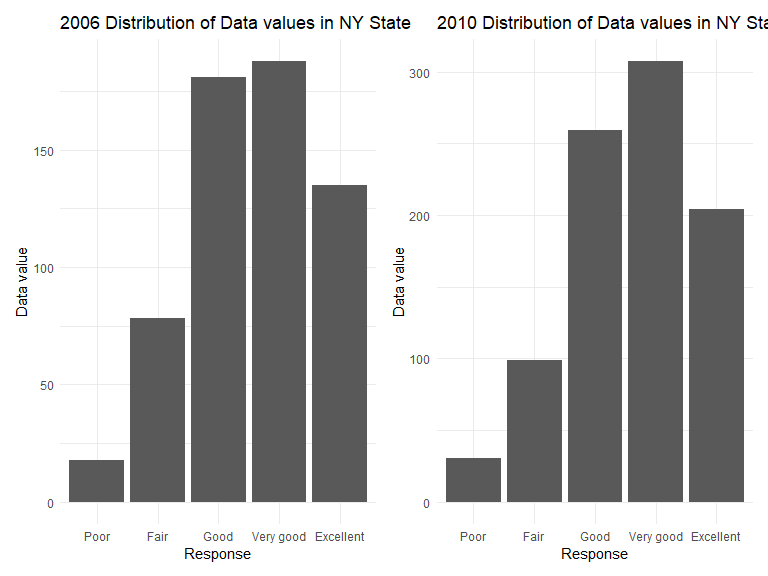
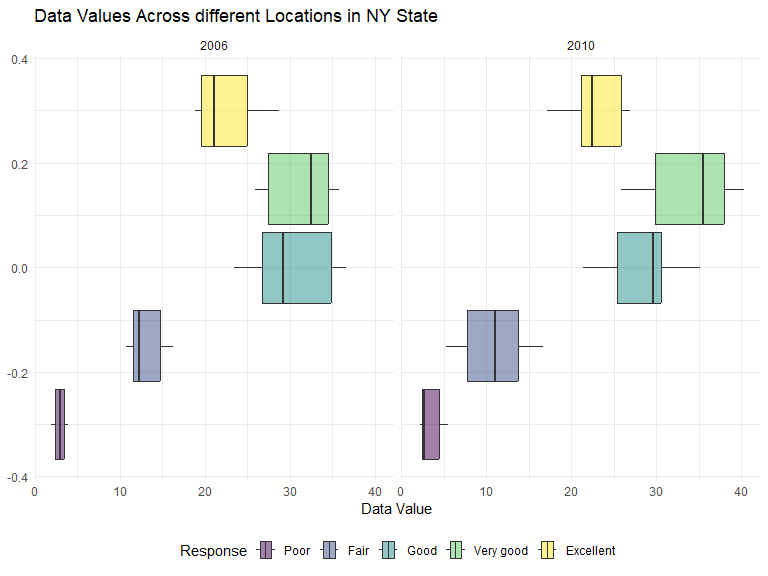
Problem 3: Total Activity Variable for each participant created + box plot

diff --git a/p8105_hw3.md b/p8105_hw3.md
@@ -212,44 +212,29 @@ spaghetti_plot
 <img src="p8105_hw3_files/figure-gfm/unnamed-chunk-9-1.png" width="90%" />
 
 Observations: The Avg Data Value seems to fluctuate between 2002-2010
-for most states, but notably there was a steep decrease in WV in the
-year 2005 and again in 2009.
+for most states, but notably there was a steep decrease in West Virginia
+in the year 2005 and again in 2009.
 
 ##### 3. Make a two-panel plot showing, for the years 2006, and 2010, distribution of data_value for responses (“Poor” to “Excellent”) among locations in NY State
 
 ``` r
-Data_NY_2006 =
-  brfss_df |>
-  filter(locationabbr == "NY", year == "2006") |>
-  drop_na(response)
-
-Plot_2006 =
-ggplot(Data_NY_2006, aes(x = response, y = data_value)) +
-  geom_col() +
+brfss_df |> 
+  select(year, data_value, locationabbr, locationdesc, response) |> 
+  filter(
+    year == 2006 | year == 2010,
+    locationabbr == "NY") |> 
+  ggplot(aes(x = data_value, fill = response)) +
+  geom_boxplot(aes(fill = response), alpha = .5) +
+   
   labs(
-    title = "2006 Distribution of Data values in NY State",
-    x = "Response",
-    y = "Data value"
-  )
-
-Data_NY_2010 =
-  brfss_df |>
-  filter(locationabbr == "NY", year == "2010") |>
-  drop_na(response)
-
-Plot_2010 =
-ggplot(Data_NY_2010, aes(x = response, y = data_value)) +
-  geom_col() +
-  labs(
-    title = "2010 Distribution of Data values in NY State",
-    x = "Response",
-    y = "Data value"
-  )
-
-Plot_2006 + Plot_2010
+    title = "Data Values Across different Locations in NY State",
+    x = "Data Value",
+    fill = "Response") + 
+  facet_grid(. ~ year)
 ```
 
 <img src="p8105_hw3_files/figure-gfm/unnamed-chunk-10-1.png" width="90%" />
+
 Observations: Overall, 2006 and 2010 have a similar distribution of data
 values (ranging “excellent” to “poor”) across NY State locations. Data
 values were the lowest among those who answered “poor” and the highest
@@ -262,12 +247,9 @@ potentially be left skewed, and there were more data values recorded in
 ##### Read, tidy, merge, and organize the nhanes accel and covar data sets. Your final dataset should include all originally observed variables; exclude participants less than 21 years of age, and those with missing demographic data; and encode data with reasonable variable classes
 
 ``` r
-## Read and clean the nhanes accel data set
-
 accel_df = 
   read_csv("./data/nhanes_accel.csv") |>
-    janitor::clean_names() |>
-    drop_na()
+  janitor::clean_names()
 ```
 
     ## Rows: 250 Columns: 1441
@@ -279,30 +261,23 @@ accel_df =
     ## ℹ Specify the column types or set `show_col_types = FALSE` to quiet this message.
 
 ``` r
-## Read, clean and organize the variables in the covar data set
-
 covar_df =
   read_csv("./data/nhanes_covar.csv", skip = 4) |>
-  janitor::clean_names() |>
-  filter(age >= 21) |>
-  drop_na() |>
+  janitor::clean_names() |> 
   mutate(
-     sex =
-      case_match(
-        sex,
-        1 ~ "Male",
-        2 ~ "Female"
-        ),
-    sex = as.factor(sex),
-    education =
-      case_match(
-        education,
-        1 ~ "less than high school",
-        2 ~ "high school equivalent",
-        3 ~ "more than high school"
-      ),
-    education = as.factor(education)
-  ) 
+    sex = case_match(
+      sex,
+      1 ~ "Male",
+      2 ~ "Female"),
+    education = case_match(
+      education,
+      1 ~ "Less than High School",
+      2 ~ "High School Equivalent",
+      3 ~ "More than High School"),
+    education = factor(
+      education,
+      levels = c("Less than High School", "High School Equivalent", "More than High School")
+    ))
 ```
 
     ## Rows: 250 Columns: 5
@@ -314,10 +289,113 @@ covar_df =
     ## ℹ Specify the column types or set `show_col_types = FALSE` to quiet this message.
 
 ``` r
-## Combining the data sets
-
 nhanes_combined = 
-  merge(accel_df, covar_df)
+  full_join(accel_df, covar_df) |> 
+  drop_na() |> 
+  filter(age >= 21)
+```
+
+    ## Joining with `by = join_by(seqn)`
+
+``` r
+view(nhanes_combined)
 ```
 
 ##### Produce a reader-friendly table for the number of men and women in each education category, and create a visualization of the age distributions for men and women.
+
+``` r
+nhanes_education_table = 
+  nhanes_combined |>
+  group_by(sex,education) |>
+  summarize(count = n()) |>
+  knitr::kable(digits = 1)
+```
+
+    ## `summarise()` has grouped output by 'sex'. You can override using the `.groups`
+    ## argument.
+
+Lets create a plot for the combined data!
+
+``` r
+nhanes_education_table = 
+  ggplot(nhanes_combined, aes(x = education, y = age, fill = sex)) +
+  geom_boxplot() +
+  labs(title = "Distribution of Age by Gender Across Education Levels",
+       x = "Education Level",
+       y = "Age") +
+  theme_minimal() +
+  theme(axis.text.x = element_text(angle = 45, hjust = 1))
+
+nhanes_education_table
+```
+
+<img src="p8105_hw3_files/figure-gfm/unnamed-chunk-13-1.png" width="90%" />
+
+Description: The plot shows the age distributions by gender in each
+education category. Both men and women with education levels above high
+school have a lower avg age compared to those in other education
+categories. Specifically, among the female group those who had a high
+school education had the highest density of people, versus in the male
+group those with below high school education levels had a higher density
+of people. In terms of age, women with a high school education were
+older than men at the same educational level.
+
+##### Using your tidied dataset, aggregate across minutes to create a total activity variable for each participant. Plot these total activities (y-axis) against age (x-axis); your plot should compare men to women and have separate panels for each education level. Include a trend line or a smooth to illustrate differences. Comment on your plot.
+
+``` r
+nhanes_total_activity_plot = 
+  nhanes_combined |> 
+  group_by(education, sex) |> 
+  mutate(total_activity = rowSums(across(min1:min1440))) |> 
+  ggplot(aes(x = age, y = total_activity, color = education)) +
+  geom_point(alpha = .5) +
+  facet_wrap(~education) +
+  geom_smooth() +
+  labs(
+    title = "Total Activity by Age Across Education Levels",
+    x = "Age",
+    y = "Activity") +
+  theme(plot.title = element_text(hjust = 0.5))
+
+nhanes_total_activity_plot
+```
+
+    ## `geom_smooth()` using method = 'loess' and formula = 'y ~ x'
+
+<img src="p8105_hw3_files/figure-gfm/unnamed-chunk-14-1.png" width="90%" />
+Description: There is a direct proportional relationship between age and
+activity. As participants age, their total level of activities decreases
+with time. Similarly, there is a decrease in activity across all
+educational levels as well. One thing to note, is that participants in
+the “less than high school” education category had the highest total
+activity at 20 years of age and also the lowest activity at 80 years of
+age.
+
+##### Make a three-panel plot that shows the 24-hour activity time courses for each education level and use color to indicate sex.
+
+``` r
+three_panel_plot = 
+  nhanes_combined |> 
+  group_by(education, sex) |>
+  summarise(across(starts_with("min"), ~ mean(.), .names = "mean_{.col}")) |>
+  pivot_longer(cols = starts_with("mean_"), names_to = "time", values_to = "mean_value") |>
+  mutate(time = as.numeric(substring(time, 9))) |> 
+  ggplot(aes(x = time, y = mean_value, color = sex)) +
+  geom_point() + 
+  geom_smooth() +
+  facet_grid(. ~ education) +
+  labs(x = "Time (min)", y = "Value") +
+  ggtitle("Activity over 24 hours by age, gender and education levels") +
+  theme_minimal()
+```
+
+    ## `summarise()` has grouped output by 'education'. You can override using the
+    ## `.groups` argument.
+
+``` r
+three_panel_plot
+```
+
+    ## `geom_smooth()` using method = 'gam' and formula = 'y ~ s(x, bs = "cs")'
+
+<img src="p8105_hw3_files/figure-gfm/unnamed-chunk-15-1.png" width="90%" />
